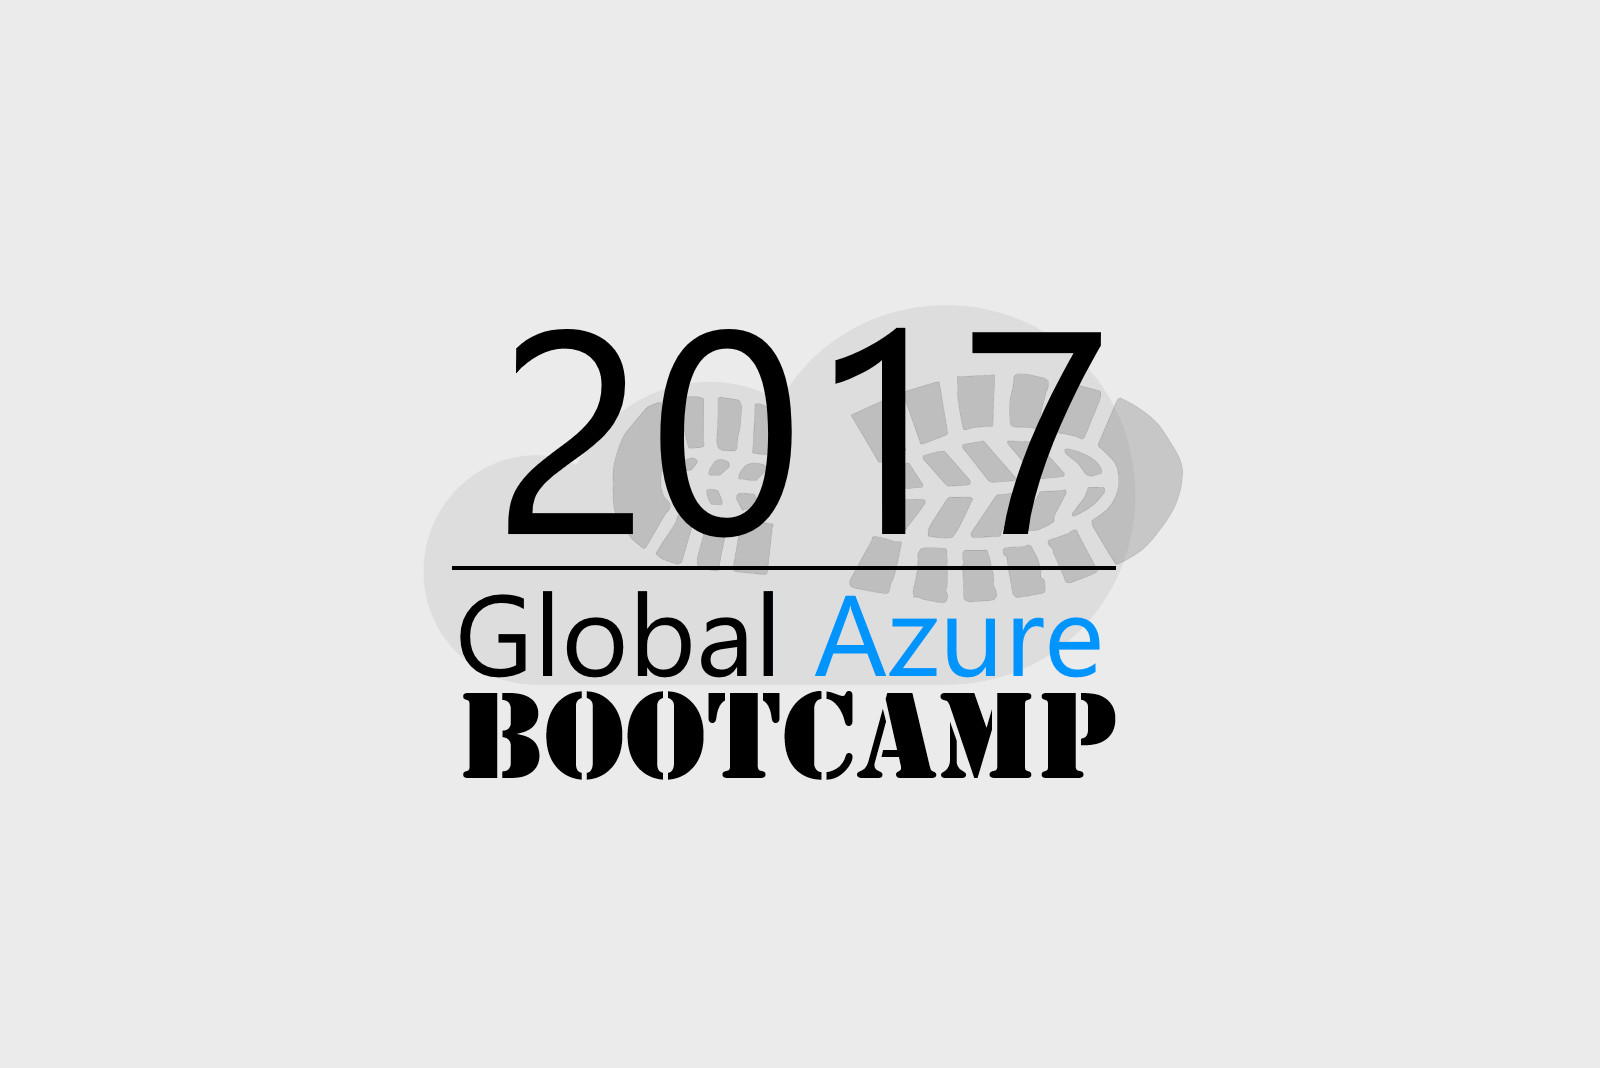
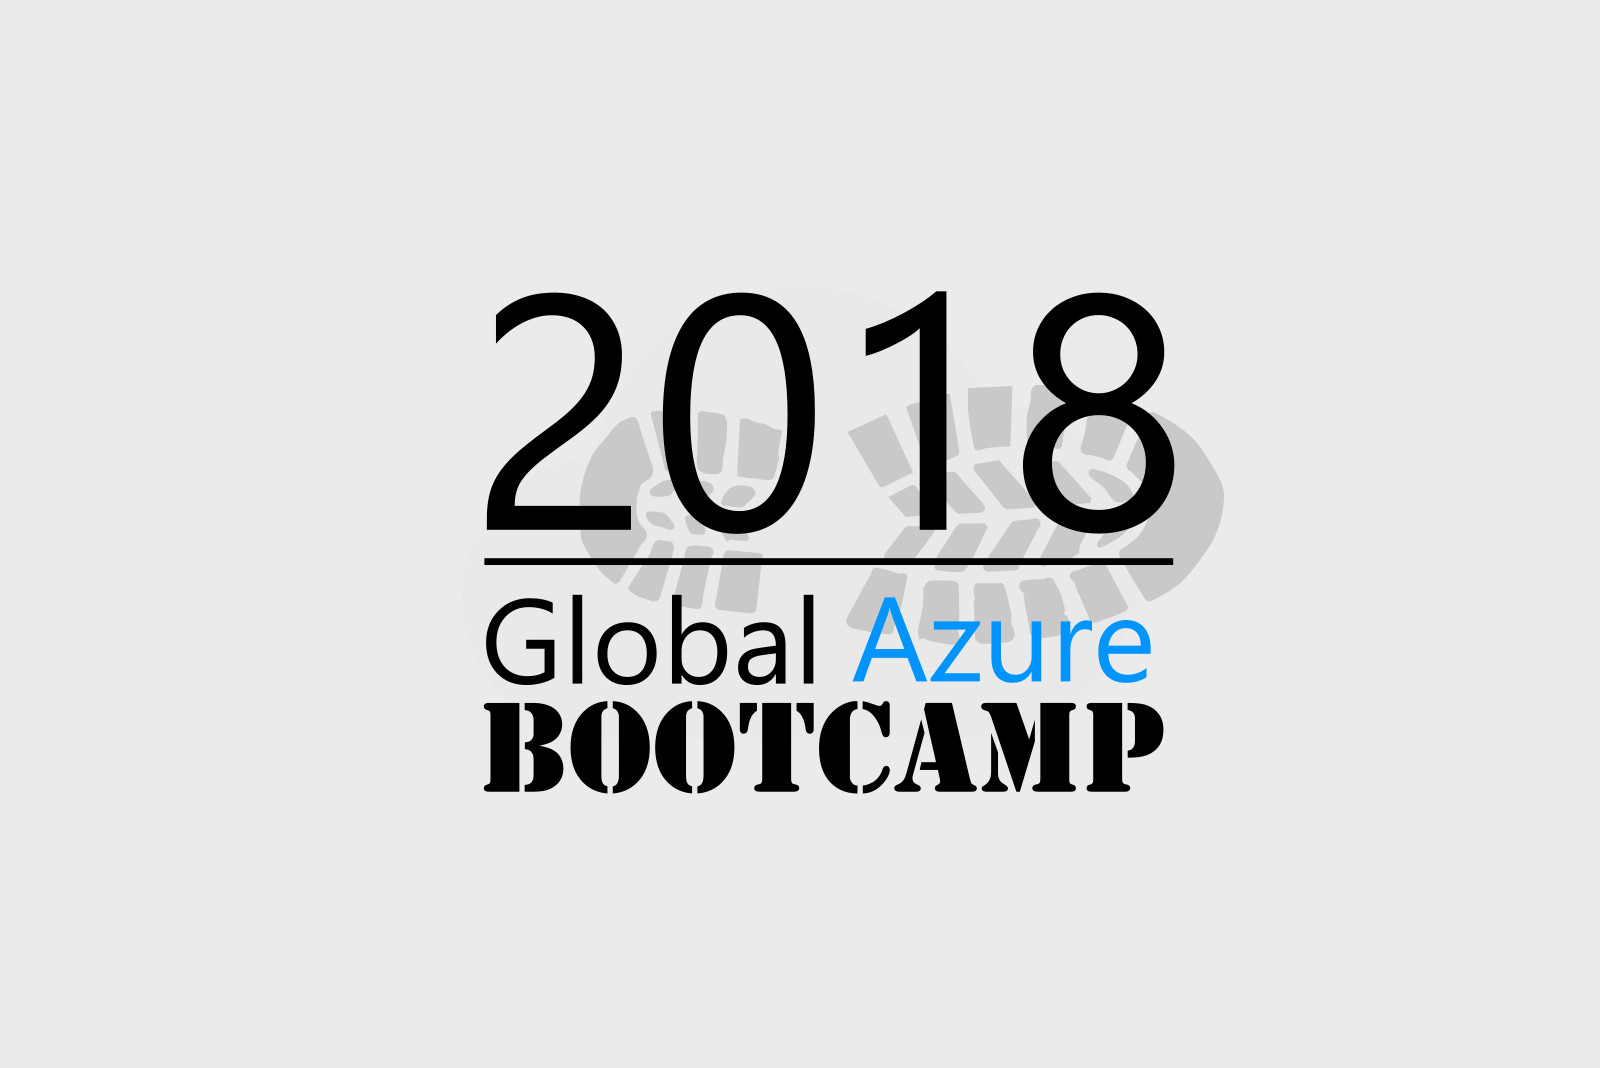
Change images from 2017 to 2018

Changed region(s): [[0.2812, 0.2781, 0.7812, 0.7416]]

diff --git a/index.html b/index.html
@@ -26,10 +26,6 @@
       <div class="container">
         <div class="row">
           <div class="col-xs-3 col-sm-2">
-            <a href="index.html">
-              <img class="logo logo-dark" alt="logo" src="img/logo-dark.png" />
-              <img class="logo logo-light" alt="logo" src="img/logo-light.png" />
-            </a>
           </div>
           <div class="col-xs-9 col-sm-10 text-right">
             <a href="#" class="hamburger-toggle" data-toggle-class="#menu2;hidden-xs hidden-sm">
@@ -48,7 +44,7 @@
           <div class="col-md-2 text-center text-left-sm hidden-xs col-md-push-5">
             <div class="bar__module">
               <a href="index.html">
-                <img class="logo logo-light" alt="logo" src="img/2017-logo-120x81.png" />
+                <img class="logo logo-light" alt="logo" src="img/logo-2018-762x677-2.png" />
               </a>
             </div>
             <!--end module-->
@@ -77,14 +73,14 @@
                 EL MAYOR EVENTO DE COMUNIDAD SOBRE MICROSOFT AZURE
               </h1>
               <p class="lead-black">
-                El <strong>sábado 22 de Abril de 2017</strong> vamos a batir algunos récords.
+                El <strong>sábado 21 de Abril de 2018</strong> vamos a batir algunos récords.
               </p>
-              <a class="btn btn--primary type--uppercase" target="_new" 
+              <!--<a class="btn btn--primary type--uppercase" target="_new" 
                 href="https://www.eventbrite.com/e/registro-global-azure-bootcamp-2017-medellin-colombia-32716305350">
                 <span class="btn__text">
                   Reclama tu entrada
                 </span>
-              </a>
+              </a>-->
             </div>
           </div>
           <div class="col-md-6 col-sm-4 col-xs-12">
@@ -106,11 +102,9 @@
       <div class="container">
         <div class="row">
           <div class="col-sm-12 text-center">
-            <span class="label label--inline">Entradas</span>
-            <span>Si quieres participar en el mayor evento global sobre Microsoft Azure 
-                <a target="_new" href="https://www.eventbrite.com/e/registro-global-azure-bootcamp-2017-medellin-colombia-32716305350">
-                  reclama tu entrada.
-                </a>
+            <span class="label label--inline">Speakers</span>
+            <span>Si quieres participar en el mayor evento global sobre Microsoft Azure como speaker, pronto estaremos
+              anunciando como ser parte.
               </span>
           </div>
         </div>
@@ -142,7 +136,7 @@
             <div class="text-block">
               <h5><span class="azure">Fecha</span></h5>
               <p>
-                Sábado 22 de Abril de 2017
+                Sábado 21 de Abril de 2018
               </p>
             </div>
             <div class="text-block">
@@ -165,7 +159,7 @@
       </div>
       <!--end of container-->
     </section>
-    <section class="switchable">
+    <!--<section class="switchable">
       <div class="container">
         <div class="row">
           <div class="col-sm-12 col-md-12">
@@ -464,9 +458,7 @@
             </div>
           </div>
         </div>
-        <!--end of row-->
       </div>
-      <!--end of container-->
     </section>
     <section class="text-center cta cta-4 space--xxs border--bottom imagebg" data-gradient-bg='#4876BD,#488dbd,#48a5bd,#4876bd'>
       <div class="container">
@@ -480,10 +472,8 @@
               </span>
           </div>
         </div>
-        <!--end of row-->
       </div>
-      <!--end of container-->
-    </section>
+    </section>-->
     <section class="text-center bg--secondary">
       <div class="container">
         <div class="row">
